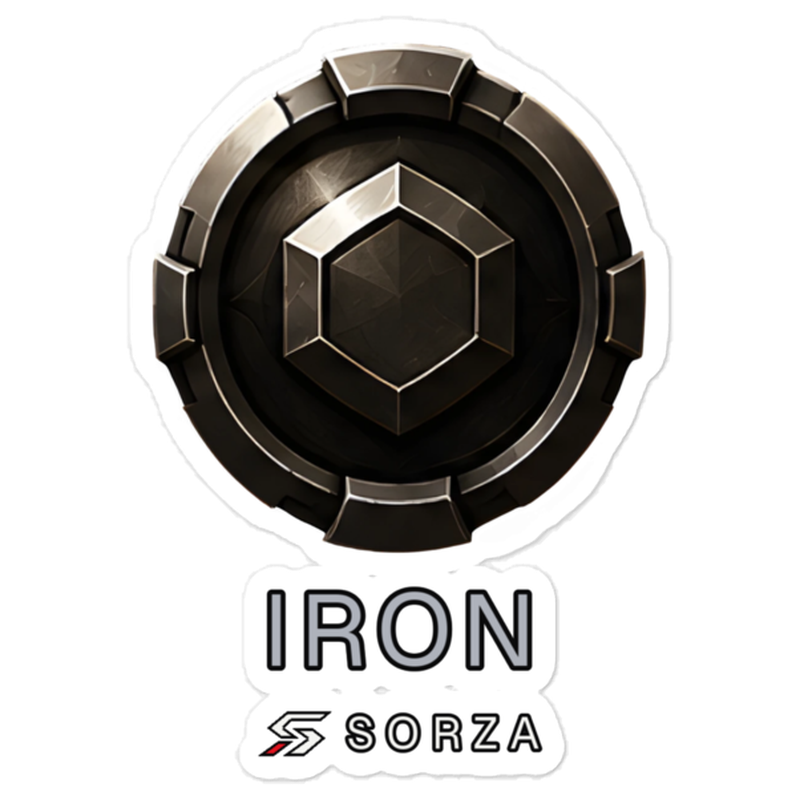
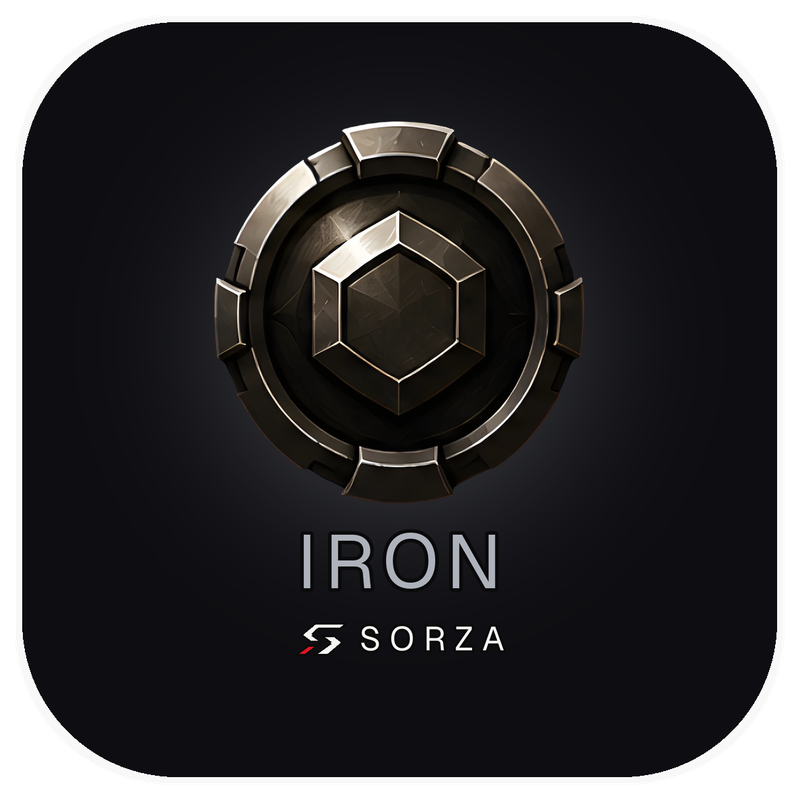
Print rank decals as a dark badge on the weatherproof sticker
The emblem now sits on one dark rounded badge, so the die-cut's white
edge is a thin even outline. Orders send the badge print file and use
Printful's weatherproof Die-Cut Sticker, at $14.99.

diff --git a/src/features/decals/decal-sheet.tsx b/src/features/decals/decal-sheet.tsx
@@ -40,10 +40,10 @@ export function useDecalOrder(vehicleId: string) {
   return { busy, error, order };
 }
 
-/** The sticker as Printful prints it: the rank artwork on white vinyl,
- * kiss-cut with a white border around its shape. These are Printful's
- * own mockups (public/decals/sticker), not a drawing of ours, so what
- * people see is what arrives. `className` must position and size it. */
+/** The sticker as Printful prints it: the rank badge, die-cut with a
+ * thin white edge around it. These are Printful's own mockups of the
+ * print files (public/decals/sticker), so what people see is what
+ * arrives. `className` must position and size it. */
 export function DecalArt({ tier, className, sizes = "(min-width: 640px) 320px, 70vw" }: { tier: RankTier; className: string; sizes?: string }) {
   return (
     <span className={`block ${className}`}>
@@ -213,7 +213,7 @@ export function DecalSheet({
           <p className="numeral flex-shrink-0 text-[1.25rem] font-bold leading-tight">{formatUsd(priceCents)}</p>
         </div>
 
-        <p className="-mt-2 text-[0.8125rem] text-muted">4 × 4 in. kiss-cut vinyl · Free US shipping</p>
+        <p className="-mt-2 text-[0.8125rem] text-muted">4 × 4 in. weatherproof vinyl · Free US shipping</p>
 
         <div>
           <button

diff --git a/src/lib/decals/printful.ts b/src/lib/decals/printful.ts
@@ -1,7 +1,8 @@
 // Server-only. Sends a paid rank-decal order to Printful, which prints
 // and ships it. Plain REST calls (no SDK). Configured with:
 //   PRINTFUL_API_TOKEN        a private token from Printful's developer portal
-//   PRINTFUL_DECAL_VARIANT_ID the sticker variant to print (4x4 in.)
+//   PRINTFUL_DECAL_VARIANT_ID the sticker variant to print: 24966, the
+//                             4x4 in. weatherproof Die-Cut Sticker
 //   PRINTFUL_STORE_ID         only if the token covers more than one store
 //   PRINTFUL_AUTO_CONFIRM     "true" sends orders straight to production;
 //                             otherwise they wait as drafts for approval

diff --git a/src/lib/decals/fulfill.ts b/src/lib/decals/fulfill.ts
@@ -71,7 +71,9 @@ export async function fulfillDecalOrder(session: Record<string, unknown>, orderI
     const printerOrderId = await createPrintfulOrder({
       orderId: order.id,
       recipient,
-      fileUrl: `${SITE_URL}/decals/${order.tier}.png`,
+      // The badge print file (scripts/make-decal-print-files.py), not the
+      // bare emblem: the die-cut follows the badge's clean outline.
+      fileUrl: `${SITE_URL}/decals/print/${order.tier}.png`,
       previewName: `SORZA ${RANK_LABELS[order.tier as RankTier]} rank decal`,
     });
     await supabase

diff --git a/src/lib/decals/eligibility.ts b/src/lib/decals/eligibility.ts
@@ -1,7 +1,9 @@
 import { rankForScore, type RankTier } from "@/lib/rating/rank";
 
-/** What a rank decal costs, US shipping included. */
-export const DECAL_PRICE_CENTS = 1299;
+/** What a rank decal costs, US shipping included. Printful charges
+ * about $10.98 for the weatherproof die-cut sticker shipped in the US
+ * ($4.84 + $5.59 shipping + tax, Nov 2026). */
+export const DECAL_PRICE_CENTS = 1499;
 
 /**
  * The rank decal a viewer may order for a car: the rank the car actually

diff --git a/src/features/decals/actions.ts b/src/features/decals/actions.ts
@@ -52,7 +52,7 @@ export async function startDecalOrderAction(vehicleId: string): Promise<Result> 
       orderId: order.id,
       tierLabel: RANK_LABELS[tier],
       priceCents: DECAL_PRICE_CENTS,
-      imageUrl: `${SITE_URL}/decals/${tier}.png`,
+      imageUrl: `${SITE_URL}/decals/sticker/${tier}.png`,
       customerEmail: user.email ?? null,
       successUrl: `${SITE_URL}/garage/${vehicle.id}?decal=ordered`,
       cancelUrl: `${SITE_URL}/garage/${vehicle.id}`,

diff --git a/src/features/decals/decal-card.tsx b/src/features/decals/decal-card.tsx
@@ -8,7 +8,7 @@ import { RANK_LABELS } from "@/lib/rating/rank";
 import { formatUsd } from "@/lib/points/packs";
 import { ChevronRightIcon } from "@/components/ui/icons";
 
-/** "Diamond decal, $12.99": the printed sticker of the rank this car
+/** "Diamond decal, $14.99": the printed sticker of the rank this car
  * earned. Tapping it opens the full view and the order button. Only
  * rendered for the owner of an approved, rated car. */
 export function DecalCard({

diff --git a/scripts/make-decal-print-files.py b/scripts/make-decal-print-files.py
@@ -1,0 +1,70 @@
+"""Builds the rank decal print files: each rank's emblem on one dark
+rounded badge, lit in the rank's color. Printful die-cuts the sticker
+around the badge, so its white edge is one thin, even outline instead
+of tracing the emblem's spikes and each word separately.
+
+Reads public/decals/{tier}.png (the emblem artwork) and writes
+public/decals/print/{tier}.png: 1200x1200 at 300 DPI, which is 4x4 in.
+
+    python scripts/make-decal-print-files.py
+"""
+from pathlib import Path
+from PIL import Image, ImageDraw, ImageFilter
+
+ROOT = Path(__file__).resolve().parent.parent
+SRC = ROOT / "public" / "decals"
+OUT = SRC / "print"
+
+# RANK_TEXT_COLORS in src/lib/rating/rank.ts.
+GLOW = {
+    "bronze": "#c98a52",
+    "copper": "#d99569",
+    "iron": "#aeb2bb",
+    "silver": "#dde1e7",
+    "gold": "#f0cd6e",
+    "platinum": "#eef4f8",
+    "emerald": "#5be3a9",
+    "diamond": "#c9f4ff",
+    "ruby": "#f27a93",
+    "cosmic": "#c9b6ff",
+}
+
+SIZE = 1200
+# Room inside the print area for the die-cut edge around the badge.
+INSET = 40
+RADIUS = 230
+BADGE = (14, 14, 18)
+
+
+def rgb(hex_color: str) -> tuple[int, int, int]:
+    return tuple(int(hex_color[i:i + 2], 16) for i in (1, 3, 5))  # type: ignore[return-value]
+
+
+def badge(tier: str) -> Image.Image:
+    shape = Image.new("L", (SIZE, SIZE), 0)
+    ImageDraw.Draw(shape).rounded_rectangle((INSET, INSET, SIZE - INSET, SIZE - INSET), radius=RADIUS, fill=255)
+
+    face = Image.new("RGBA", (SIZE, SIZE), BADGE + (255,))
+    glow = Image.new("RGBA", (SIZE, SIZE), (0, 0, 0, 0))
+    ImageDraw.Draw(glow).ellipse((260, 170, 940, 850), fill=rgb(GLOW[tier]) + (95,))
+    face.alpha_composite(glow.filter(ImageFilter.GaussianBlur(150)))
+
+    art = Image.open(SRC / f"{tier}.png").convert("RGBA")
+    art = art.resize((900, 900), Image.LANCZOS)
+    face.alpha_composite(art, ((SIZE - 900) // 2, (SIZE - 900) // 2 + 6))
+
+    out = Image.new("RGBA", (SIZE, SIZE), (0, 0, 0, 0))
+    out.paste(face, (0, 0), shape)
+    return out
+
+
+def main() -> None:
+    OUT.mkdir(parents=True, exist_ok=True)
+    for tier in GLOW:
+        dest = OUT / f"{tier}.png"
+        badge(tier).save(dest, dpi=(300, 300), optimize=True)
+        print(dest.relative_to(ROOT), dest.stat().st_size // 1024, "KB")
+
+
+if __name__ == "__main__":
+    main()
